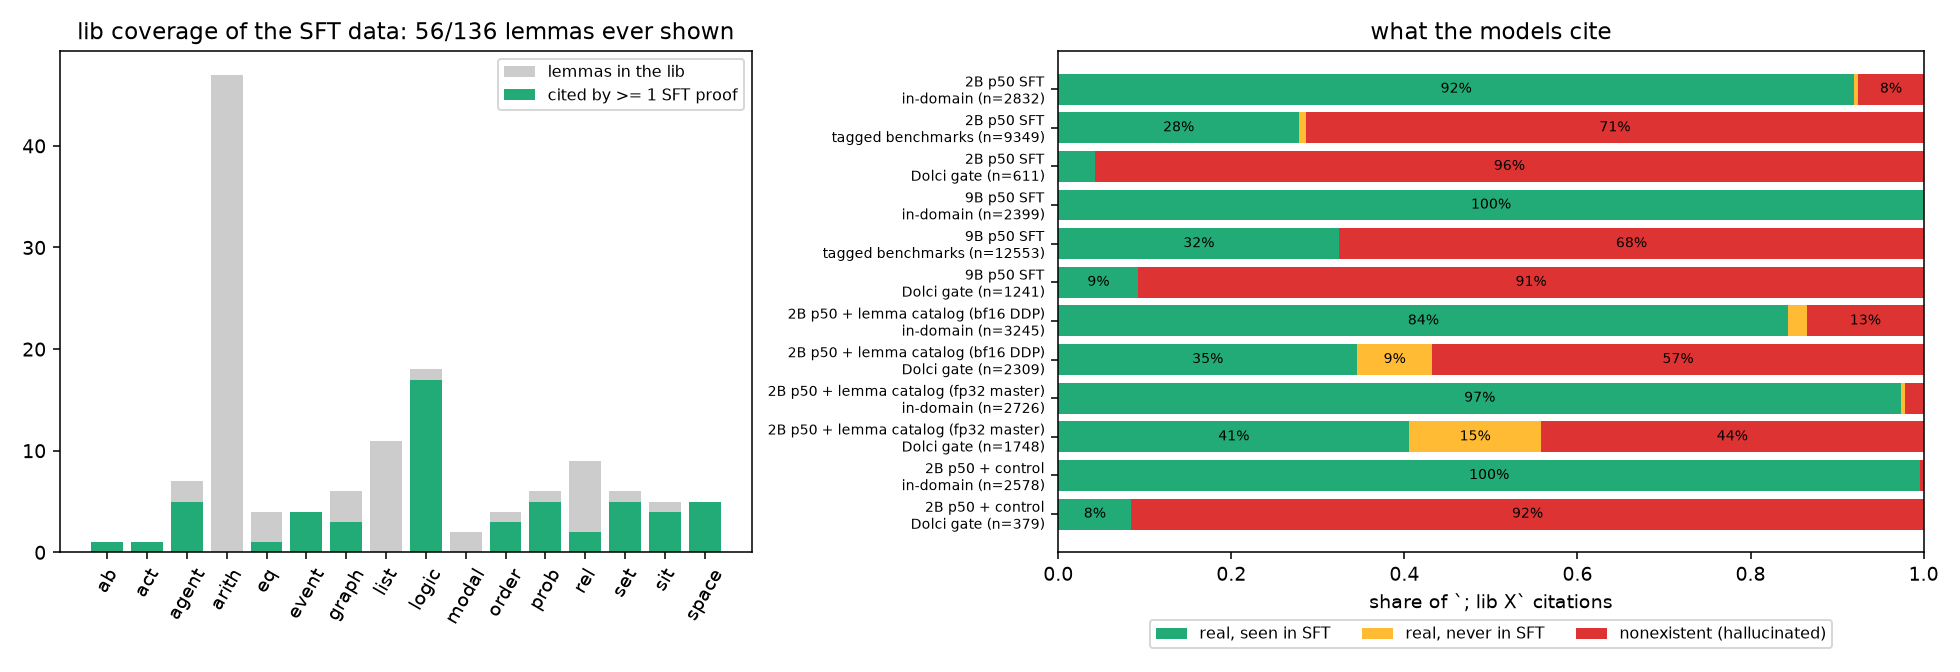
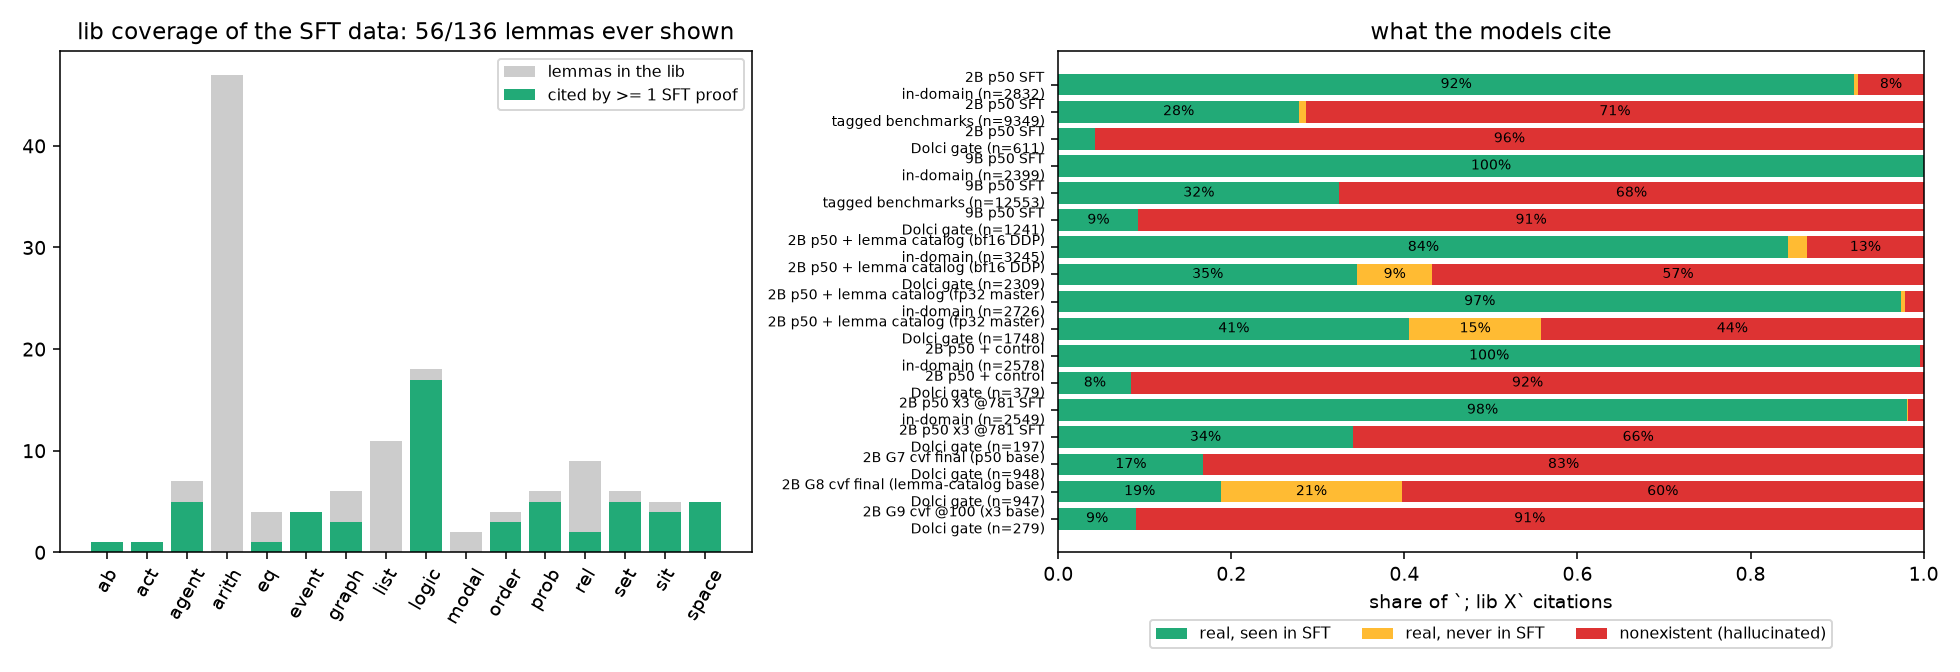
stage2 report: GRPO signal starvation (86-91% zero-variance groups), lemma hallucination across SFT/GRPO; G10 (+600 steps) queued
Claude-Session: https://claude.ai/code/session_01WnQYXLXLcnkw9LdZ4eJP3w

Changed region(s): [[0.3735, 0.0938, 0.9959, 0.8125]]

diff --git a/scripts/analysis/lib_coverage.py b/scripts/analysis/lib_coverage.py
@@ -32,7 +32,11 @@ MODELS = [("2B p50 SFT", SFT / "qwen35_2b_dolci_rlvlgen_p50_lr5em6_seed3407"),
           # continued SFT from 2B p50 (scripts/data/build_lemma_continue.py): + lemma catalog vs control
           ("2B p50 + lemma catalog (bf16 DDP)", SFT / "qwen35_2b_p50_cont_lc_lr5em6_seed3407"),
           ("2B p50 + lemma catalog (fp32 master)", SFT / "qwen35_2b_p50_cont_lc_fp32m_lr5em6_seed3407"),
-          ("2B p50 + control", SFT / "qwen35_2b_p50_cont_ct_lr5em6_seed3407")]
+          ("2B p50 + control", SFT / "qwen35_2b_p50_cont_ct_lr5em6_seed3407"),
+          ("2B p50 x3 @781 SFT", SFT / "qwen35_2b_dolci_rlvlgen_p50_x3_lr5em6_seed3407/checkpoint-781"),
+          ("2B G7 cvf final (p50 base)", GRPO / "2b_p50_G7_cvf/final"),
+          ("2B G8 cvf final (lemma-catalog base)", GRPO / "2b_lcfp32m_G8_cvf/final"),
+          ("2B G9 cvf @100 (x3 base)", GRPO / "2b_x3at781_G9_cvf/checkpoint-100")]
 EVALS = [("formal_eval", "in-domain"), ("formal_bench_tagged", "tagged benchmarks"), ("rl_gate_dolci", "Dolci gate")]
 CITE = re.compile(r"; lib ([A-Za-z_0-9.]+)")
 

diff --git a/reports/2026-09-28_stage2_gate.md b/reports/2026-09-28_stage2_gate.md
@@ -874,3 +874,51 @@ Same 950 Dolci gate prompts. `valid` is the strict count, with circular and taut
 
 Next steps:
 - Gate G9 final (job 7413, about 2 h). If G9 final ≤ G8 final, use the lemma-catalog fp32 base (`lc_fp32m`) as the Stage-2 starting point for EI round 1. Otherwise use the longer-SFT (x3) base.
+
+## 2026-09-30 08:30: are 200 GRPO steps enough? Does the model know which lemmas exist?
+
+### GRPO is starved of signal, not converged
+
+![lib coverage](figures/lib_coverage.png)
+
+The GRPO recipe used for G7–G9:
+- 32 prompts × 8 samples per step, constant lr 1e-6 after 10 warmup steps, no KL penalty.
+- 200 steps = 1.6 epochs over 4,091 prompts.
+- The policy is held in fp32 (TRL's default dtype). 98% of G8's weights changed, so the SFT precision bug does not apply here.
+
+| run | steps | train reward | train valid | groups with zero reward variance | entropy |
+|---|---|---|---|---|---|
+| G7 (p50 base) | 1–20 → 181–200 | .102 → .095 | .119 → .123 | .80 → .91 | .48 → .23 |
+| G8 (lemma-catalog base) | 1–20 → 181–200 | .147 → .179 | .161 → .201 | .81 → .86 | .35 → .16 |
+
+- The training reward is almost flat over 200 steps.
+- 86–91% of the 8-sample groups get the same reward for every sample, so they give no gradient. Each step learns from only about 4 of its 32 prompts.
+  - Dolci prompts are almost always all-0 (valid rate about .01).
+  - Generator prompts are often all-1.
+- Entropy halves over the run. Running the same recipe much longer would mostly sharpen the policy, not add signal.
+- G8's Dolci gate still rose from @100 to final (.012 → .033). G8 @50 and @150 are being gated (job 7825) to measure the slope.
+- The direct test is **G10**: G8 final continued for +600 steps with the identical recipe (job 7826, after G9 on gruenau10), gated at +200, +400 and +600.
+- Two likely fixes for the starved signal:
+  - Filter prompts to those with a pass rate strictly between 0 and 1 under the current policy (DAPO-style dynamic sampling).
+  - Use 16 samples on Dolci prompts.
+
+### Lemma knowledge: targeted data works, more of the same data barely does
+
+Citations `; lib X` in the Dolci-gate generations. "Nonexistent" means X is not a lemma in `rlvl/lib`.
+
+| model | cites | nonexistent |
+|---|---|---|
+| SFT p50 | 611 | **96%** |
+| SFT p50 + 10k more generator rows (control) | 379 | 92% |
+| SFT p50 x3 @781 (3× longer SFT run, not yet decayed) | 197 | 66% |
+| **SFT p50 + 5k lemma-catalog rows (fp32)** | 1748 | **44%** |
+| G7 final (p50 base) | 948 | 83% |
+| G8 final (lemma-catalog base) | 947 | 60% |
+| G9 @100 (x3 base) | 279 | 91% |
+
+- The SFT pool only ever cites 56 of the 136 lib lemmas. The model had no way to learn the rest.
+- Five thousand catalog rows (one use of every lemma) cut hallucinated cites from 96% to 44% and brought 80 never-seen lemmas into use. The same amount of ordinary generator data did not (92%).
+- GRPO gives back part of the gain (44% → 60%). An unknown lemma only zeros the reward at the end; nothing rewards removing it.
+- Most of the remaining invented names cover domains the lib has no lemmas for (`geom.dist_def`, `arith.gcd_def`, `arith.mod_def`, `motion.position`). The model is asking for a lemma that should exist. Two remedies:
+  - Teach the fallback: derive from definitions with `calc`/`def` when no lemma fits.
+  - Extend the lib to these domains. That is a design change to the knowledge base, left to the user.
